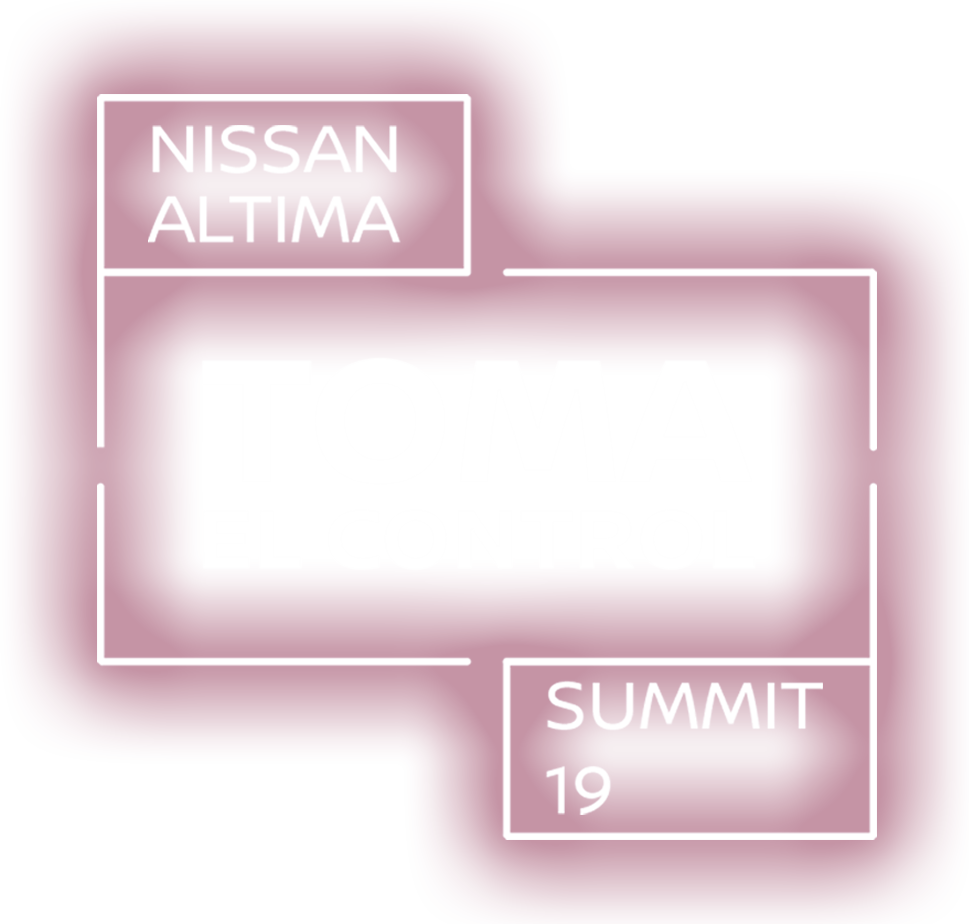
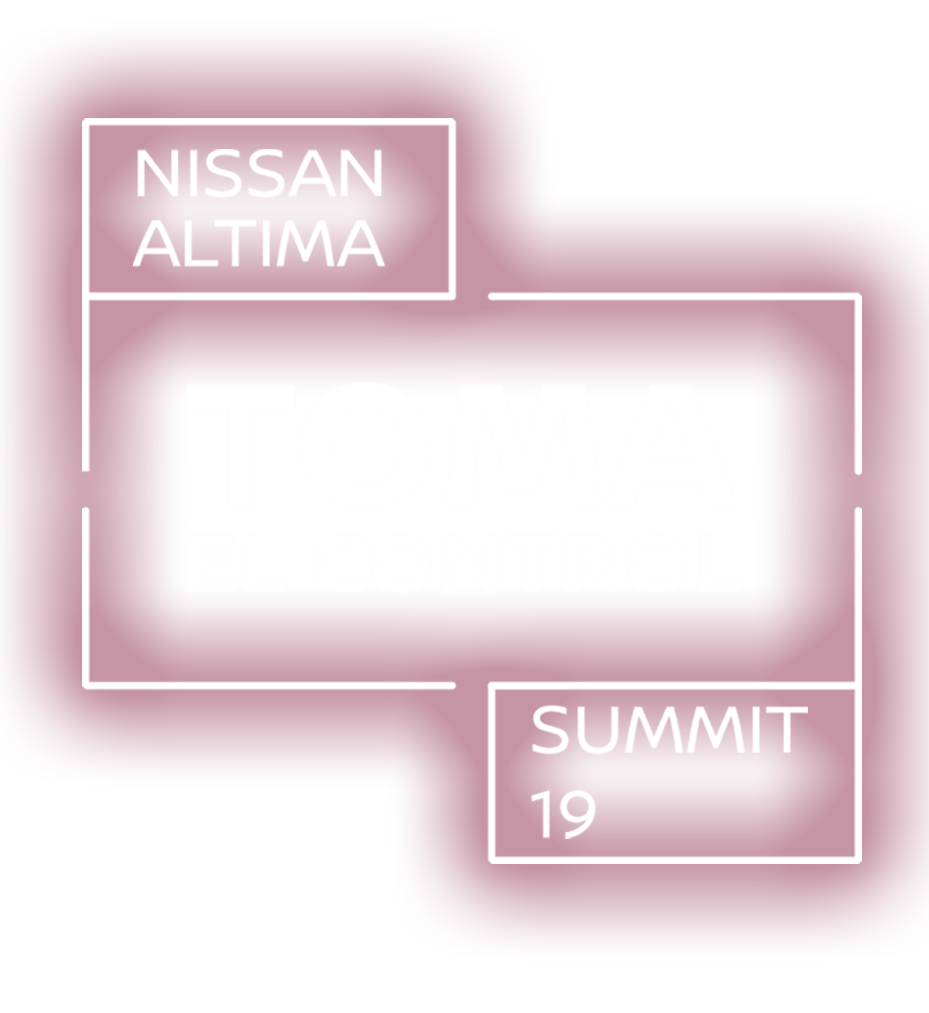
Registro Completo
Registro

Changed region(s): [[0.0624, 0.2727, 0.9989, 1.0], [0.0624, 0.0303, 0.4995, 0.4848]]

diff --git a/registro/style.css b/registro/style.css
@@ -61,14 +61,14 @@ body {
   
 }
 .ic-logo-container {
-  width: 200px;
-  height: 200px;
-  background-image: url('Images/ALTIMA.png');
+  width: 300px;
+  height: 300px;
+  background-image: url('Images/A3.png');
   background-size: 100%;
-  margin: 0 auto 30px auto;
+  margin: -30px auto -30px auto;
 }
 .user-form {
-  background: white;
+  background: gray;
   width: 100%;
   max-width: 500px;
   margin: 0 auto;
@@ -108,14 +108,14 @@ body {
 }
 .user-action-trigger:nth-child(1):before {
   right: 0;
-  background-color: #7190d6;
+  background-color: #c4002e;
 }
 .user-action-trigger:nth-child(2) {
   margin-left: -2px;
 }
 .user-action-trigger:nth-child(2):before {
   left: 0;
-  background-color: #b80063;
+  background-color: #c4002e;
 }
 .user-action-trigger.active {
   color: #000000;
@@ -145,12 +145,12 @@ body {
 .input-container:before {
   position: absolute;
   font-size: 18px;
-  color: #7190d6;
+  color: #c4002e;
   left: 10px;
   top: 12px;
 }
 .user-action-signup .input-container:before {
-  color: #b80063;
+  color: #c4002e;
 }
 h1 {
   font-size: 22px;
@@ -174,10 +174,10 @@ input {
   color: rgba(0, 0, 0, 0.8);
 }
 input:focus {
-  border-color: #7190d6;
+  border-color: #c4002e;
 }
 .user-action-signup input:focus {
-  border-color: #b80063;
+  border-color: #c4002e;
 }
 .user-go {
   display: block;
@@ -186,9 +186,9 @@ input:focus {
   outline: none;
   border: none;
   color: white;
-  background: #7190d6;
+  background: #c4002e;
   padding: 10px 20px;
 }
 .user-action-signup .user-go {
-  background: #b80063;
+  background: #c4002e;
 }

diff --git a/registro/index.html b/registro/index.html
@@ -21,7 +21,7 @@
 	<div class="user-form">
 		<div class="ic-logo-container"></div>
 		<div class="user-action-tabs">
-			<a href="" class="user-action-trigger active" data-ic-class="tab-trigger">Entrar</a>
+			<a href="" class="user-action-trigger active" data-ic-class="tab-trigger">Iniciar</a>
 			<a href="" class="user-action-trigger" data-ic-class="tab-trigger">Registrarse</a>
 		</div>
 		<div class="user-action-content">
@@ -33,7 +33,7 @@
 				<div class="input-container password-input-container fa fa-lock">
 					<input type="password" placeholder="Contraseña"/>
 				</div>
-				<button class="user-go">Let's Go</button>
+				<button class="user-go">Entrar</button>
 			</div>
 			<div class="user-action-option user-action-signup" data-ic-class="tab-content">
 		
@@ -51,7 +51,7 @@
 					<input type="password" placeholder="Confirmar contraseña"/>
 				</div>
 
-				<button class="user-go">Let's Go</button>
+				<button class="user-go">Entrar</button>
 			</div>
 		</div>
 	</div>
